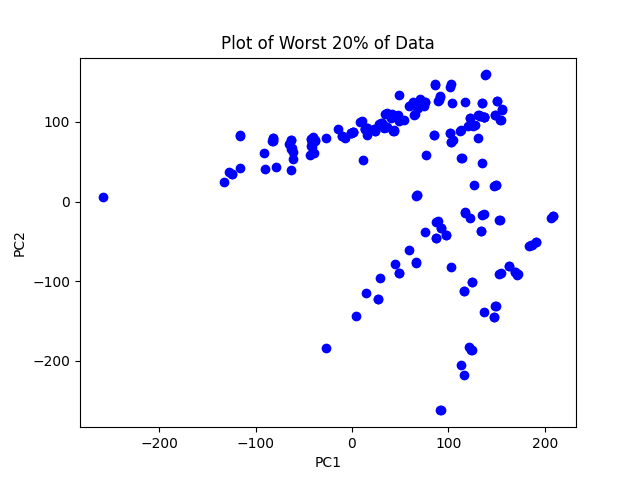
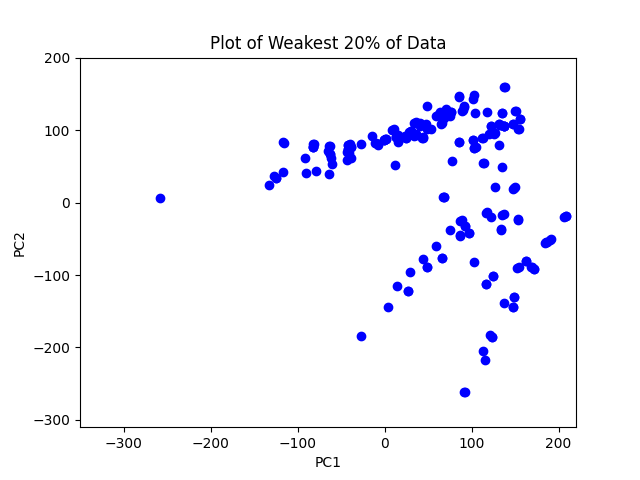
small changes

diff --git a/visualization.py b/visualization.py
@@ -16,6 +16,9 @@ def project_to3d(title, normalized_df, sorted_eigenvectors, strength_norm):
     ax.set_xlabel('PC1')
     ax.set_ylabel('PC2')
     ax.set_zlabel('PC3')
+    ax.set_xlim(-350, 220)
+    ax.set_ylim(-310, 200)
+    ax.set_zlim(-300, 250)
     ax.set_title(title)
     plt.savefig(f'plots/{title}.png')
     plt.show()
@@ -35,7 +38,10 @@ def project_to3d(title, normalized_df, sorted_eigenvectors, strength_norm):
     ax.set_xlabel('PC1')
     ax.set_ylabel('PC2')
     ax.set_zlabel('PC3')
-    plt.title('Plot of Best 20% of Data')
+    ax.set_xlim(-350, 220)
+    ax.set_ylim(-310, 200)
+    ax.set_zlim(-300, 250)
+    plt.title('Plot of Strongest 20% of Data')
     plt.savefig(f'plots/best3d.png')
     plt.show()
 
@@ -53,7 +59,10 @@ def project_to3d(title, normalized_df, sorted_eigenvectors, strength_norm):
     ax.set_xlabel('PC1')
     ax.set_ylabel('PC2')
     ax.set_zlabel('PC3')
-    plt.title('Plot of Worst 20% of Data')
+    ax.set_xlim(-350, 220)  
+    ax.set_ylim(-310, 200)  
+    ax.set_zlim(-300, 250)  
+    plt.title('Plot of Weakest 20% of Data')
     plt.savefig(f'plots/worst3d.png')
     plt.show()
 
@@ -68,6 +77,8 @@ def project_to2d(title, cbar_label, normalized_df, eigenvectors, strength_norm):
     plt.scatter(x, y, c=strength_norm, cmap='RdBu_r')
     plt.xlabel('PC1')
     plt.ylabel('PC2')
+    plt.xlim(-350, 220)
+    plt.ylim(-310, 200)
     plt.title(title)
     cbar = plt.colorbar()
     cbar.set_label(cbar_label)
@@ -82,7 +93,9 @@ def project_to2d(title, cbar_label, normalized_df, eigenvectors, strength_norm):
     plt.scatter(df_first_20_percent[0], df_first_20_percent[1], marker='o', linestyle='-', color='r')
     plt.xlabel('PC1')
     plt.ylabel('PC2')
-    plt.title('Plot of Best 20% of Data')
+    plt.xlim(-350, 220)
+    plt.ylim(-310, 200)
+    plt.title('Plot of Strongest 20% of Data')
     plt.savefig(f'plots/best.png')
     plt.show()
 
@@ -94,7 +107,9 @@ def project_to2d(title, cbar_label, normalized_df, eigenvectors, strength_norm):
     plt.scatter(df_first_20_percent[0], df_first_20_percent[1], marker='o', linestyle='-', color='b')
     plt.xlabel('PC1')
     plt.ylabel('PC2')
-    plt.title('Plot of Worst 20% of Data')
+    plt.xlim(-350, 220)
+    plt.ylim(-310, 200)
+    plt.title('Plot of Weakest 20% of Data')
     plt.savefig(f'plots/worst.png')
     plt.show()
 
